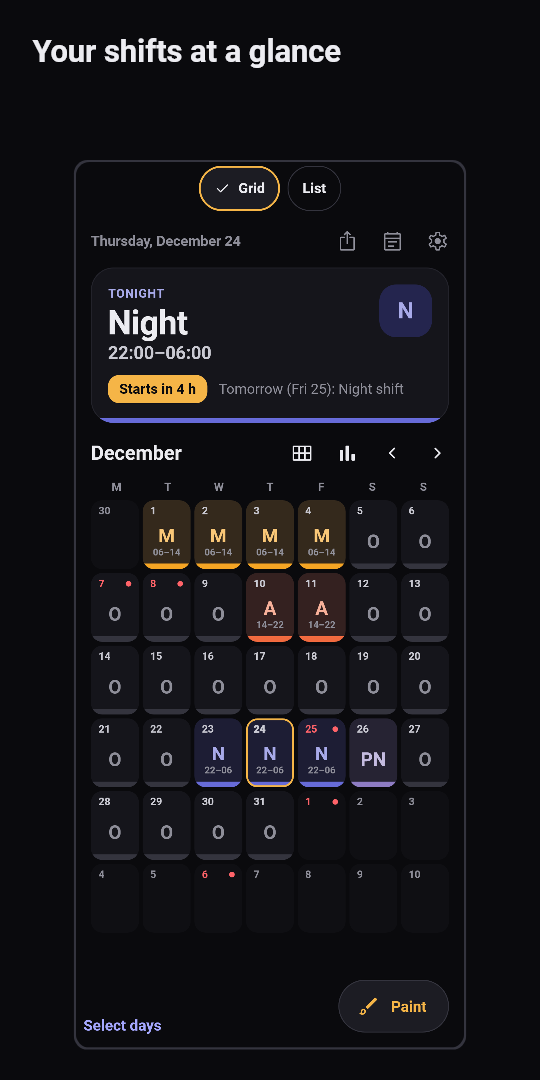
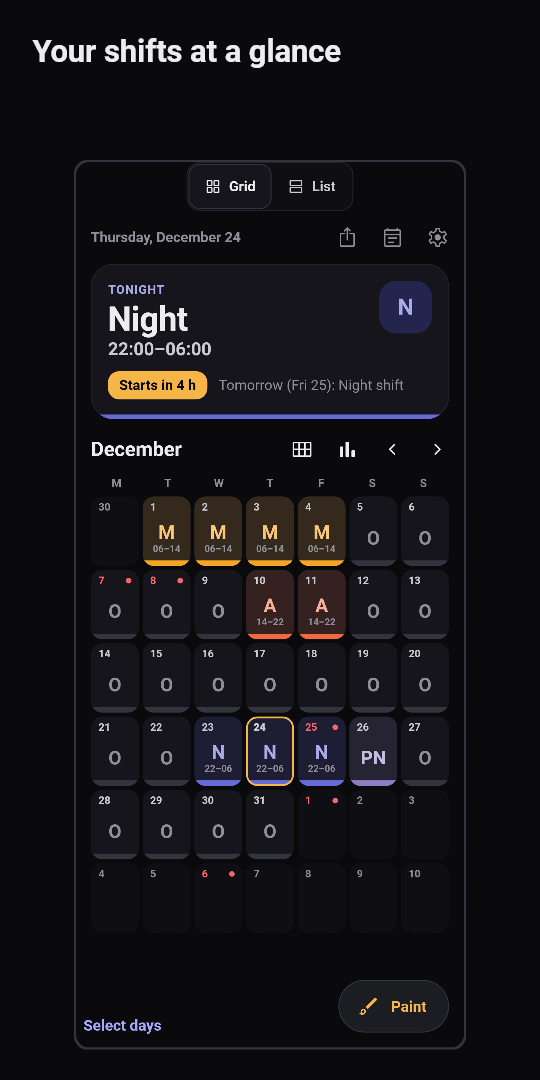
Month: grid/list switch as a segmented control

diff --git a/app/lib/features/calendar/presentation/month_presentation_control.dart b/app/lib/features/calendar/presentation/month_presentation_control.dart
@@ -7,7 +7,7 @@ import 'package:flutter_riverpod/flutter_riverpod.dart';
 import '../../../core/l10n/l10n.dart';
 import '../../../core/providers.dart';
 import '../../../core/theme/theme_context.dart';
-import '../../../core/widgets/choice_pill.dart';
+import '../../../core/icons/app_icons.dart';
 import '../../schedule/domain/civil_date.dart';
 import '../../settings/application/preferences_controller.dart';
 import '../application/month_presentation.dart';
@@ -86,46 +86,160 @@ class MonthPresentationControl extends ConsumerWidget {
             reduced ||
             scaler.scale(codeStyle.fontSize!) / codeStyle.fontSize! >= 1.5 ||
             scaler.scale(timeStyle.fontSize!) / timeStyle.fontSize! >= 1.5;
+        // The icons only repeat the labels: they go first when large text
+        // would otherwise wrap a label and push the month down.
+        final labelStyle = context.type.body.copyWith(
+          fontWeight: FontWeight.w800,
+        );
+        double segment(String label, {required bool icon}) =>
+            textWidth(label, labelStyle, scaler) +
+            2 * Sp.l +
+            (icon ? IconSize.inline + Sp.s : 0);
+        double both({required bool icons}) =>
+            segment(l10n.monthPresentationGrid, icon: icons) +
+            segment(l10n.monthPresentationList, icon: icons) +
+            2 * (Sp.xs + Sp.hair + 1) +
+            (recommended ? Sp.xs + Sp.cellSegmentDot : 0);
+        final showIcons = both(icons: true) <= box.maxWidth;
+        // Each half keeps its natural width; when even the bare labels do
+        // not fit side by side (very large text), they stack.
+        final inOneRow = both(icons: false) <= box.maxWidth;
         return Padding(
-          padding: const EdgeInsets.all(Sp.xs),
-          child: Wrap(
-            spacing: Sp.s,
-            runSpacing: Sp.xs,
-            crossAxisAlignment: WrapCrossAlignment.center,
-            children: [
-              ChoicePill(
-                key: const ValueKey('month-presentation-grid'),
-                label: l10n.monthPresentationGrid,
-                selected: presentation == MonthPresentation.grid,
-                onTap: () => _choose(context, ref, MonthPresentation.grid),
+          padding: const EdgeInsets.symmetric(horizontal: Sp.xs),
+          child: Center(
+            child: DecoratedBox(
+              decoration: BoxDecoration(
+                color: context.colors.surfaceMuted,
+                borderRadius: BorderRadius.circular(Rad.button),
+                border: Border.all(color: context.colors.border),
               ),
-              DecoratedBox(
-                key: recommended
-                    ? const ValueKey('month-list-recommendation')
-                    : null,
-                decoration: BoxDecoration(
-                  color: recommended ? context.colors.surfaceRaised : null,
-                  borderRadius: BorderRadius.circular(Rad.chip),
-                  border: recommended
-                      ? Border.all(color: context.colors.accent, width: Sp.ring)
-                      : null,
-                ),
-                child: Tooltip(
-                  message: recommended
-                      ? l10n.monthListRecommended
-                      : l10n.monthPresentationList,
-                  child: ChoicePill(
-                    key: const ValueKey('month-presentation-list'),
-                    label: l10n.monthPresentationList,
-                    selected: presentation == MonthPresentation.list,
-                    onTap: () => _choose(context, ref, MonthPresentation.list),
-                  ),
+              child: Padding(
+                padding: const EdgeInsets.all(Sp.hair),
+                child: Flex(
+                  direction: inOneRow ? Axis.horizontal : Axis.vertical,
+                  mainAxisSize: MainAxisSize.min,
+                  children: [
+                    _Segment(
+                      key: const ValueKey('month-presentation-grid'),
+                      icon: showIcons ? AppIcons.gridView : null,
+                      label: l10n.monthPresentationGrid,
+                      selected: presentation == MonthPresentation.grid,
+                      onTap: () =>
+                          _choose(context, ref, MonthPresentation.grid),
+                    ),
+                    Tooltip(
+                      message: recommended
+                          ? l10n.monthListRecommended
+                          : l10n.monthPresentationList,
+                      child: _Segment(
+                        key: const ValueKey('month-presentation-list'),
+                        icon: showIcons ? AppIcons.listView : null,
+                        label: l10n.monthPresentationList,
+                        selected: presentation == MonthPresentation.list,
+                        // A dot, not a colour change of the whole control:
+                        // the list is suggested, never imposed.
+                        badge: recommended
+                            ? Container(
+                                key: const ValueKey(
+                                  'month-list-recommendation',
+                                ),
+                                width: Sp.cellSegmentDot,
+                                height: Sp.cellSegmentDot,
+                                decoration: BoxDecoration(
+                                  color: context.colors.accent,
+                                  shape: BoxShape.circle,
+                                ),
+                              )
+                            : null,
+                        onTap: () =>
+                            _choose(context, ref, MonthPresentation.list),
+                      ),
+                    ),
+                  ],
                 ),
               ),
-            ],
+            ),
           ),
         );
       },
+    );
+  }
+}
+
+/// One half of the grid/list switch: the selected half sits on a raised
+/// thumb with a bolder label (never colour alone), like a native segmented
+/// control on iOS and Android.
+class _Segment extends StatelessWidget {
+  const _Segment({
+    super.key,
+    required this.icon,
+    required this.label,
+    required this.selected,
+    required this.onTap,
+    this.badge,
+  });
+
+  final IconData? icon;
+  final String label;
+  final bool selected;
+  final VoidCallback onTap;
+  final Widget? badge;
+
+  @override
+  Widget build(BuildContext context) {
+    final colors = context.colors;
+    final ink = selected ? colors.textPrimary : colors.textSecondary;
+    final radius = BorderRadius.circular(Rad.inner);
+    return Semantics(
+      container: true,
+      button: true,
+      selected: selected,
+      inMutuallyExclusiveGroup: true,
+      excludeSemantics: true,
+      label: label,
+      onTap: onTap,
+      child: AnimatedContainer(
+        duration: Motion.state,
+        constraints: const BoxConstraints(minHeight: Sp.touch),
+        decoration: BoxDecoration(
+          color: selected ? colors.surface : Colors.transparent,
+          borderRadius: radius,
+          border: Border.all(
+            color: selected ? colors.borderStrong : Colors.transparent,
+          ),
+        ),
+        child: Material(
+          type: MaterialType.transparency,
+          child: InkWell(
+            borderRadius: radius,
+            onTap: onTap,
+            child: Padding(
+              padding: const EdgeInsets.symmetric(horizontal: Sp.l),
+              child: Row(
+                mainAxisSize: MainAxisSize.min,
+                children: [
+                  if (icon != null) ...[
+                    Icon(icon, size: IconSize.inline, color: ink),
+                    const SizedBox(width: Sp.s),
+                  ],
+                  Flexible(
+                    child: Text(
+                      label,
+                      style: context.type.body.copyWith(
+                        color: ink,
+                        fontWeight: selected
+                            ? FontWeight.w800
+                            : FontWeight.w600,
+                      ),
+                    ),
+                  ),
+                  if (badge != null) ...[const SizedBox(width: Sp.xs), badge!],
+                ],
+              ),
+            ),
+          ),
+        ),
+      ),
     );
   }
 }

diff --git a/app/lib/core/icons/app_icons.dart b/app/lib/core/icons/app_icons.dart
@@ -88,6 +88,14 @@ class AppIcons {
     Symbols.calendar_view_month_rounded,
   );
 
+  /// The month as a grid of day cells (the presentation switch).
+  static IconData get gridView =>
+      _pick(CupertinoIcons.square_grid_2x2, Symbols.grid_view_rounded);
+
+  /// The month as a list of days (the presentation switch).
+  static IconData get listView =>
+      _pick(CupertinoIcons.list_bullet, Symbols.view_agenda_rounded);
+
   /// The monthly summary (hours and estimated pay).
   static IconData get summary =>
       _pick(CupertinoIcons.chart_bar, Symbols.bar_chart_rounded);
@@ -171,6 +179,7 @@ class AppIcons {
   /// A stepper going down by one step.
   static IconData get minus =>
       _pick(CupertinoIcons.minus, Symbols.remove_rounded);
+
   /// A reminder / alarm (bell).
   static IconData get bell =>
       _pick(CupertinoIcons.bell, Symbols.notifications_rounded);
